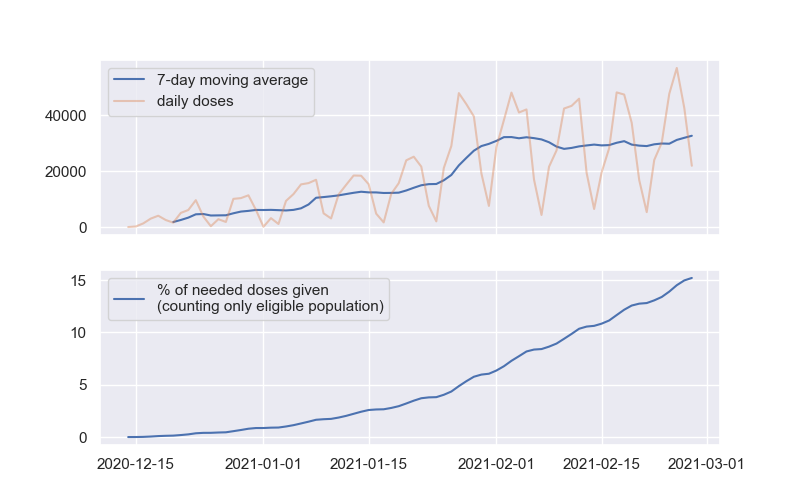
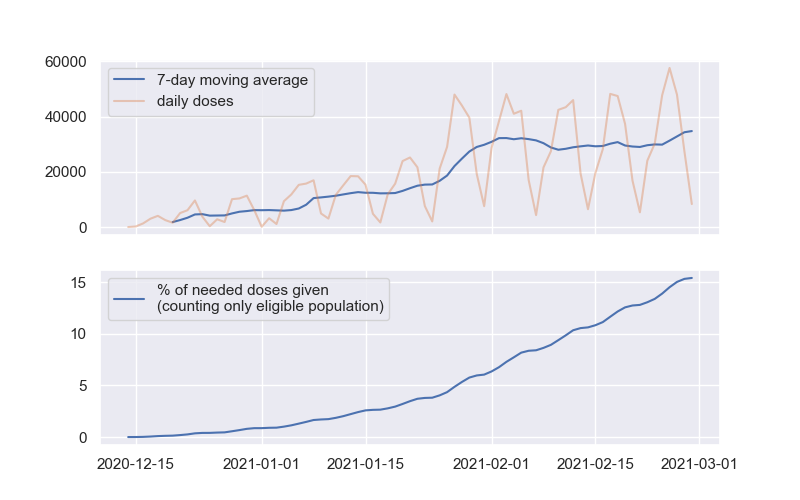
2021-03-01

diff --git a/README.md b/README.md
@@ -10,10 +10,10 @@ Raw data was obtained from https://www.dhs.wisconsin.gov/covid-19/vaccine-data.h
 
 ```
 $ python trax.py
-Data up through 2021-02-27, recent data is usually corrected to be higher
-32693 average doses per day over past 7 days (+3533 compared to 2 weeks ago)
-44.7 weeks (2022-01-05) for EVERY PERSON to get 2 doses
-34.5 weeks (2021-10-26) for all eligible people (over 16 years old) to get 2 doses
+Data up through 2021-02-28, recent data is usually corrected to be higher
+34756 average doses per day over past 7 days (+5756 compared to 2 weeks ago)
+42.0 weeks (2021-12-18) for EVERY PERSON to get 2 doses
+32.4 weeks (2021-10-12) for all eligible people (over 16 years old) to get 2 doses
 ```
 
 # Charts
